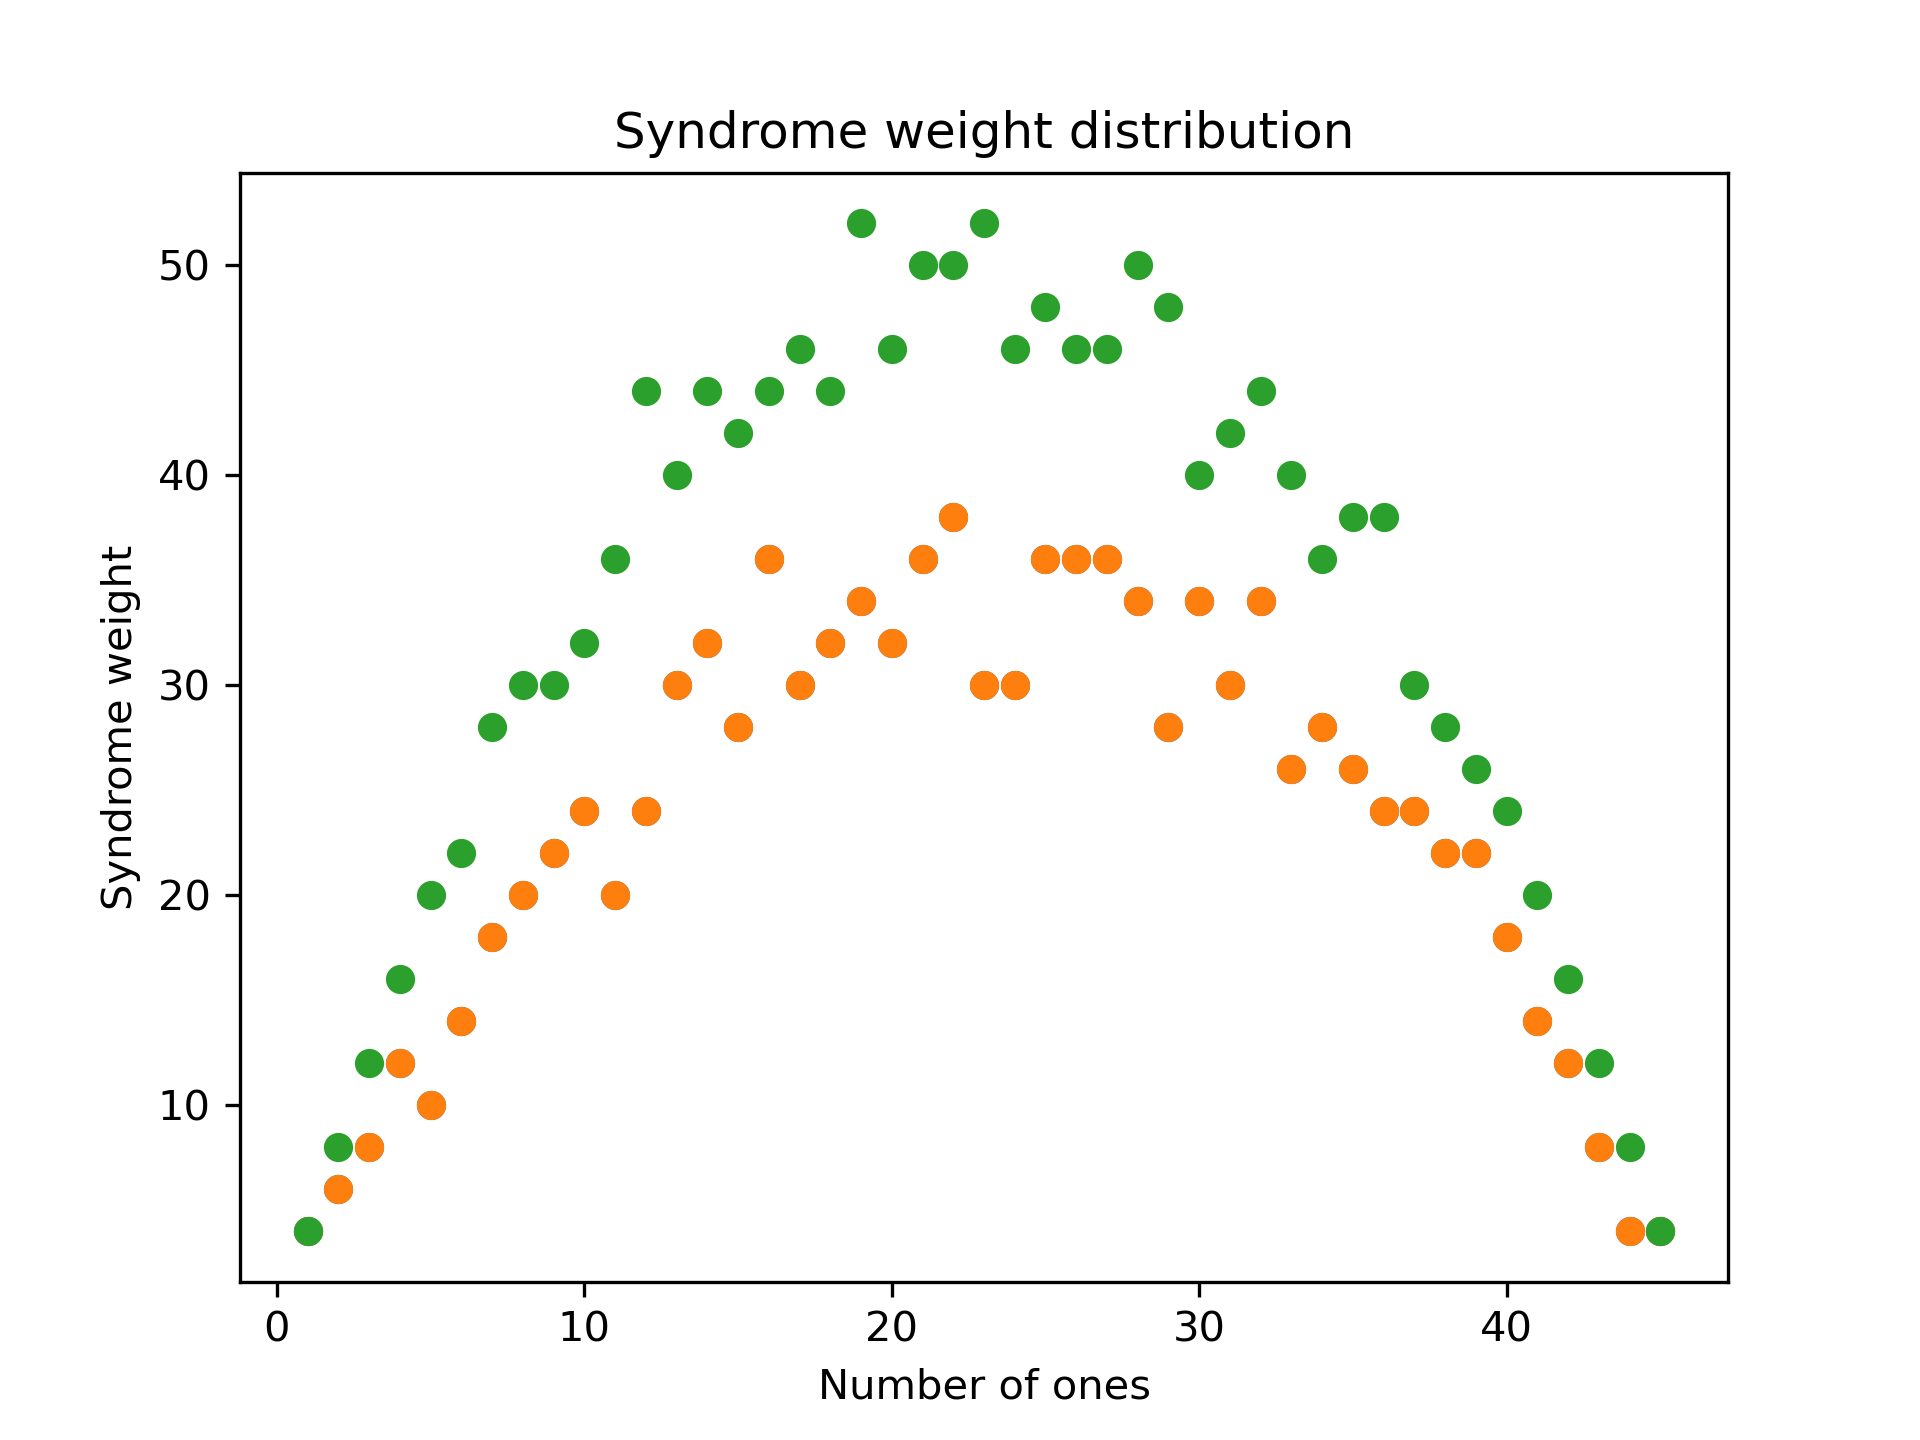
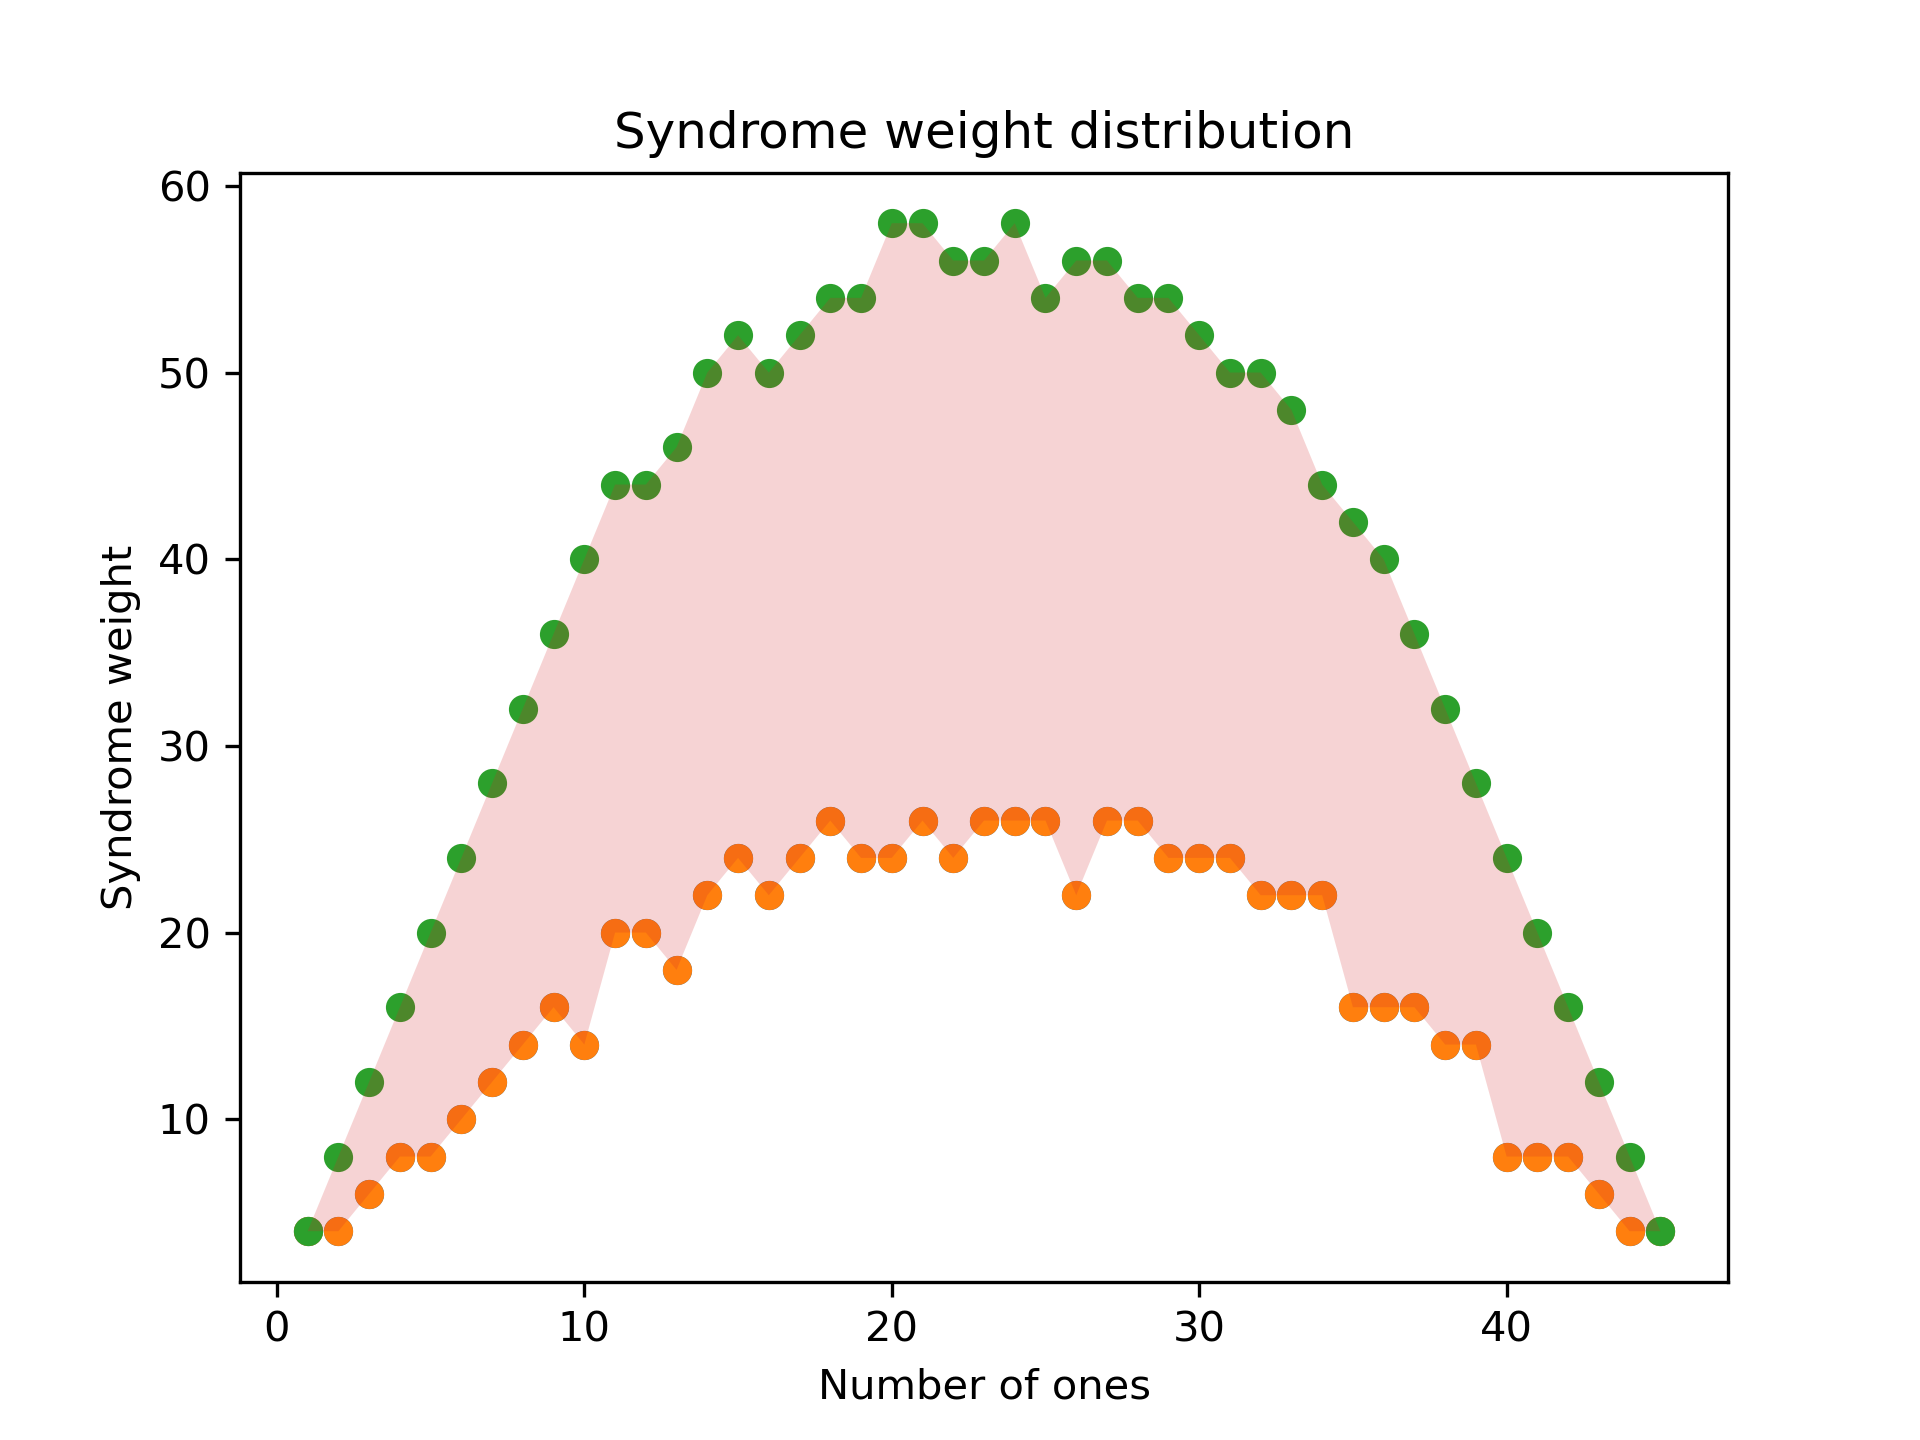
add new

diff --git a/src/energy_barrier_stats.py b/src/energy_barrier_stats.py
@@ -38,7 +38,7 @@ qcode = css_code(hx=hx, hz=hz)  # all kinds of parameters are already obtained d
 # logx_space = row_span(qcode.lx)
 # logz_space = row_span(qcode.lz)
 
-num_sample = 10
+num_sample = 1000
 rng = np.random.default_rng(seed=0)
 ####################################################################################################
 # Energy cost stats for low weight logical operators
@@ -79,7 +79,7 @@ fig, ax = plt.subplots()
 ax.scatter(numones, energy_barrier_list,label='energy barrier')
 ax.scatter(numones, np.min(synd_weights_list, axis=1),label='min syndrome weight')
 ax.scatter(numones, np.max(synd_weights_list, axis=1),label='max syndrome weight')
-# plt.hist(synd_weights, bins=np.linspace(np.min(synd_weights), np.max(synd_weights), 50), density=False)
+ax.fill_between(numones, np.min(synd_weights_list, axis=1), np.max(synd_weights_list, axis=1), alpha=0.2)
 ax.set_xlabel('Number of ones')
 ax.set_ylabel('Syndrome weight')
 ax.set_title('Syndrome weight distribution')
